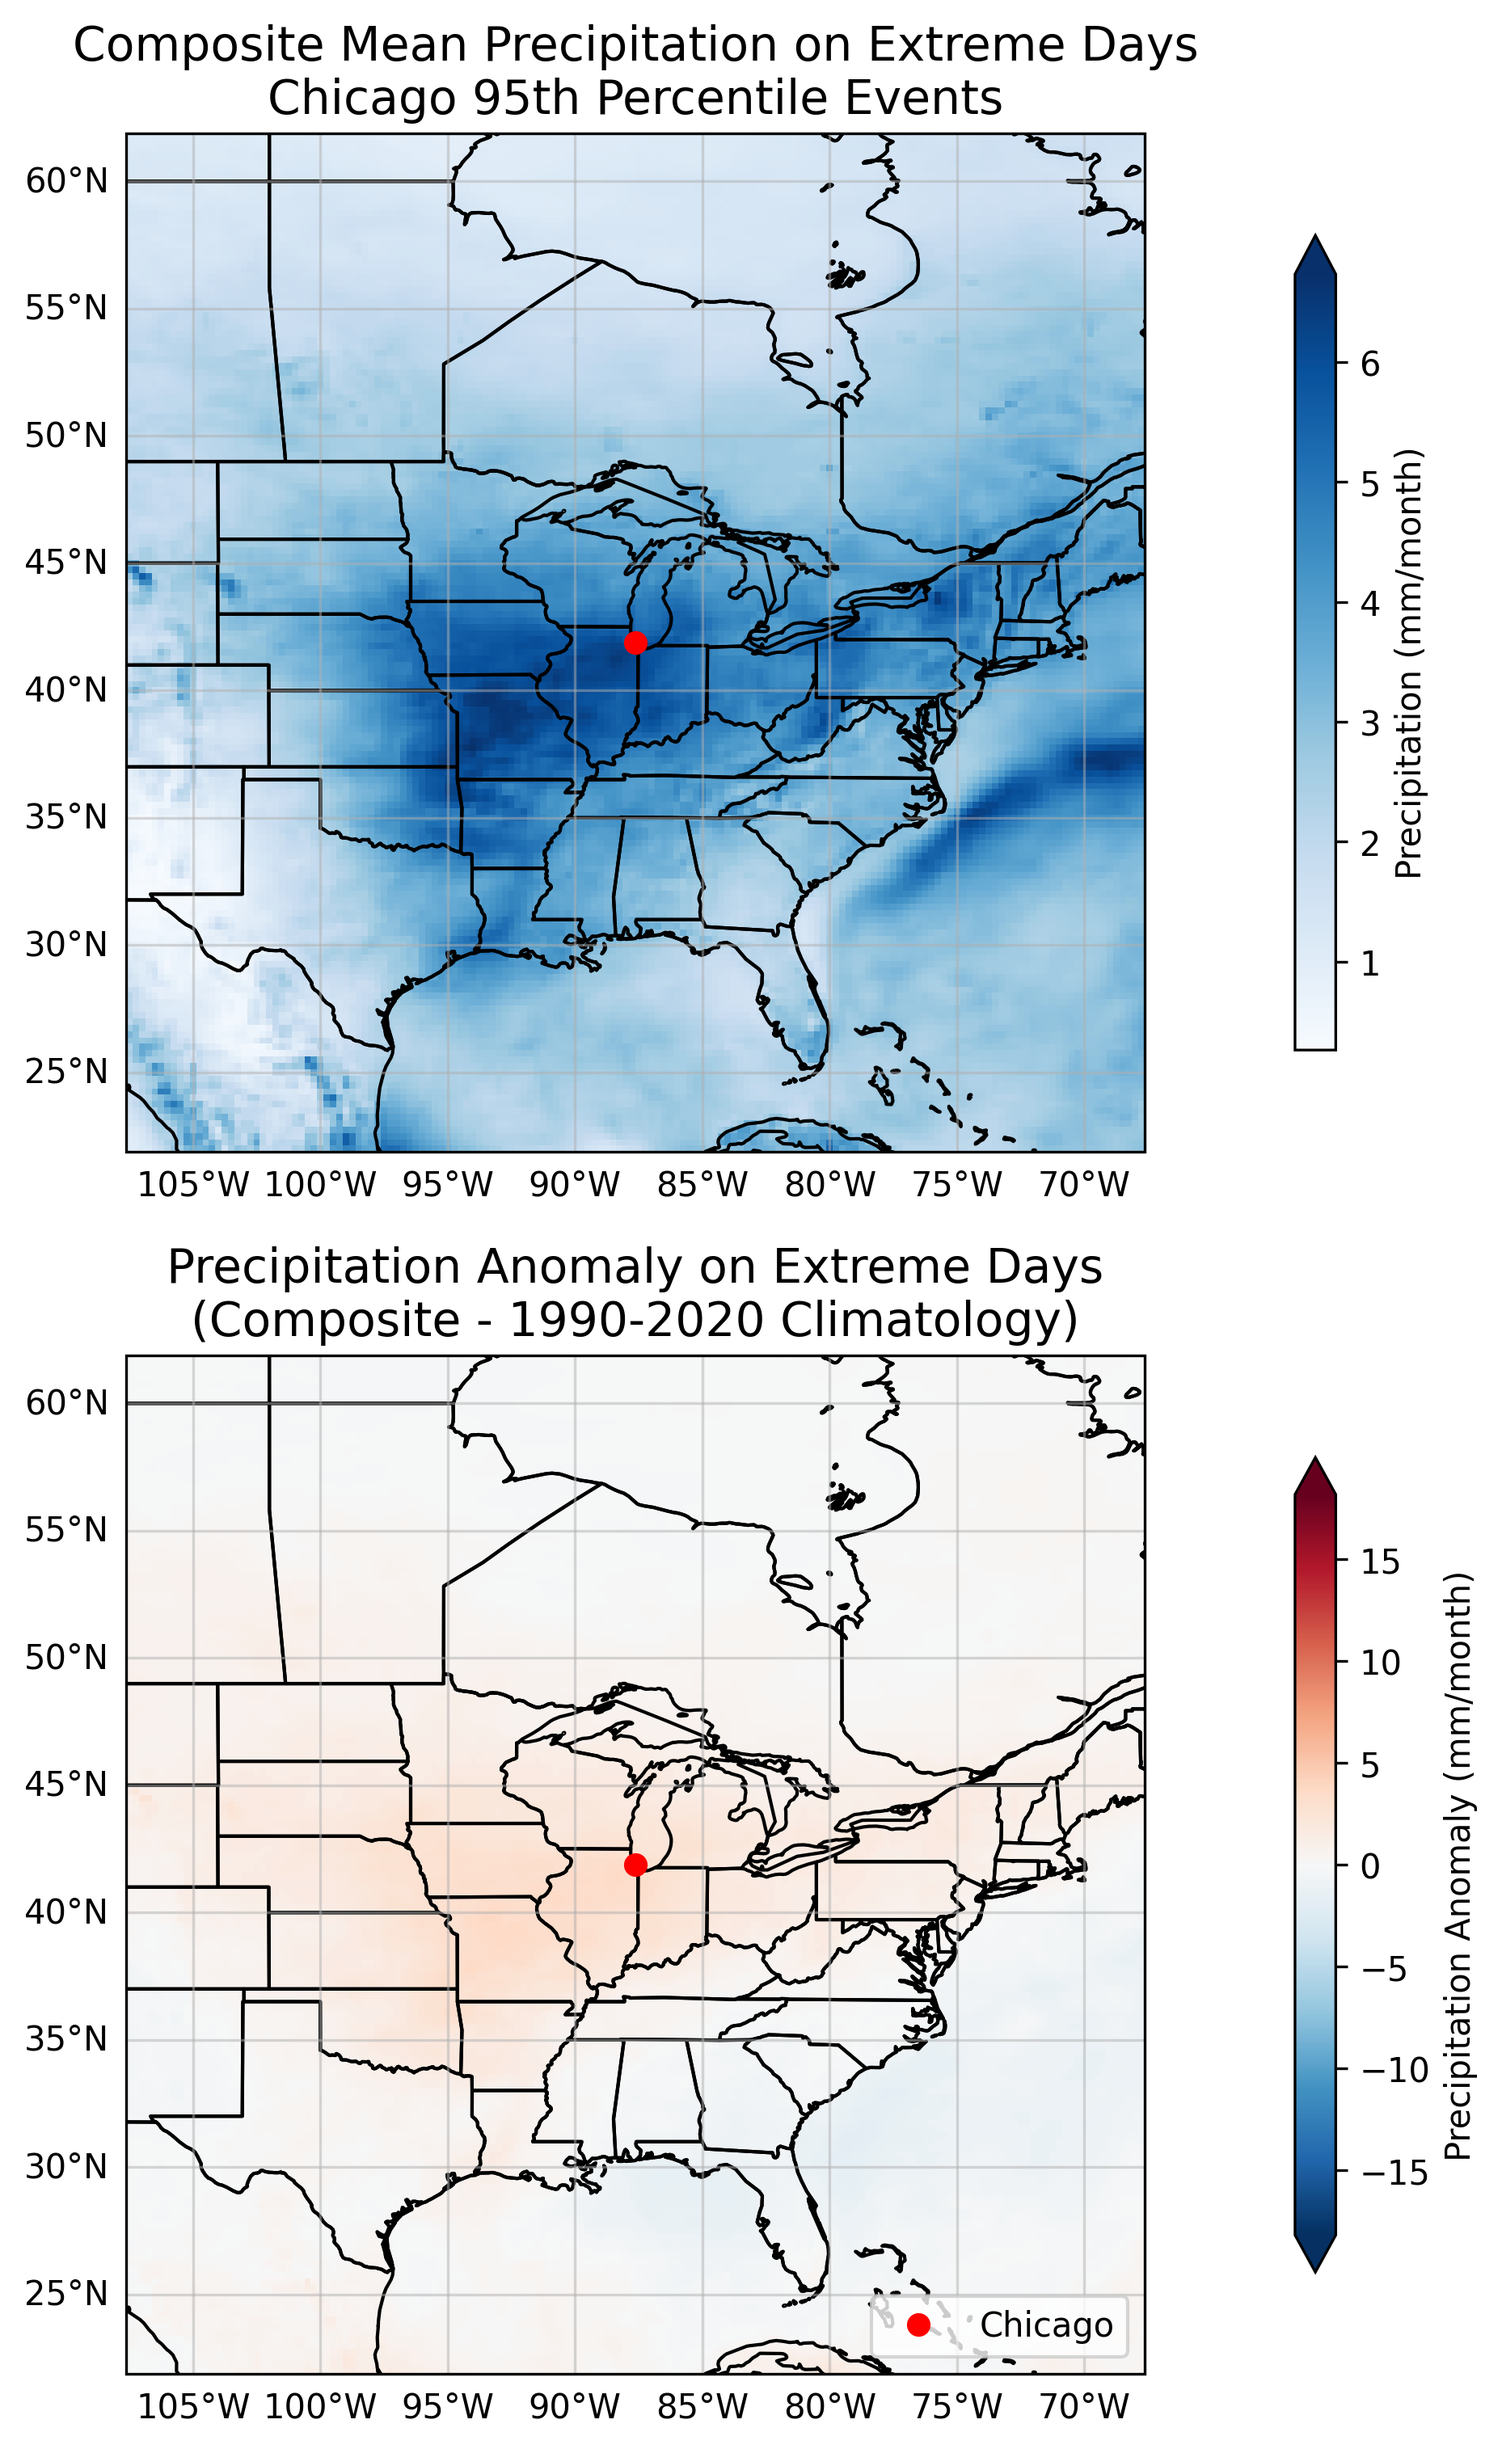
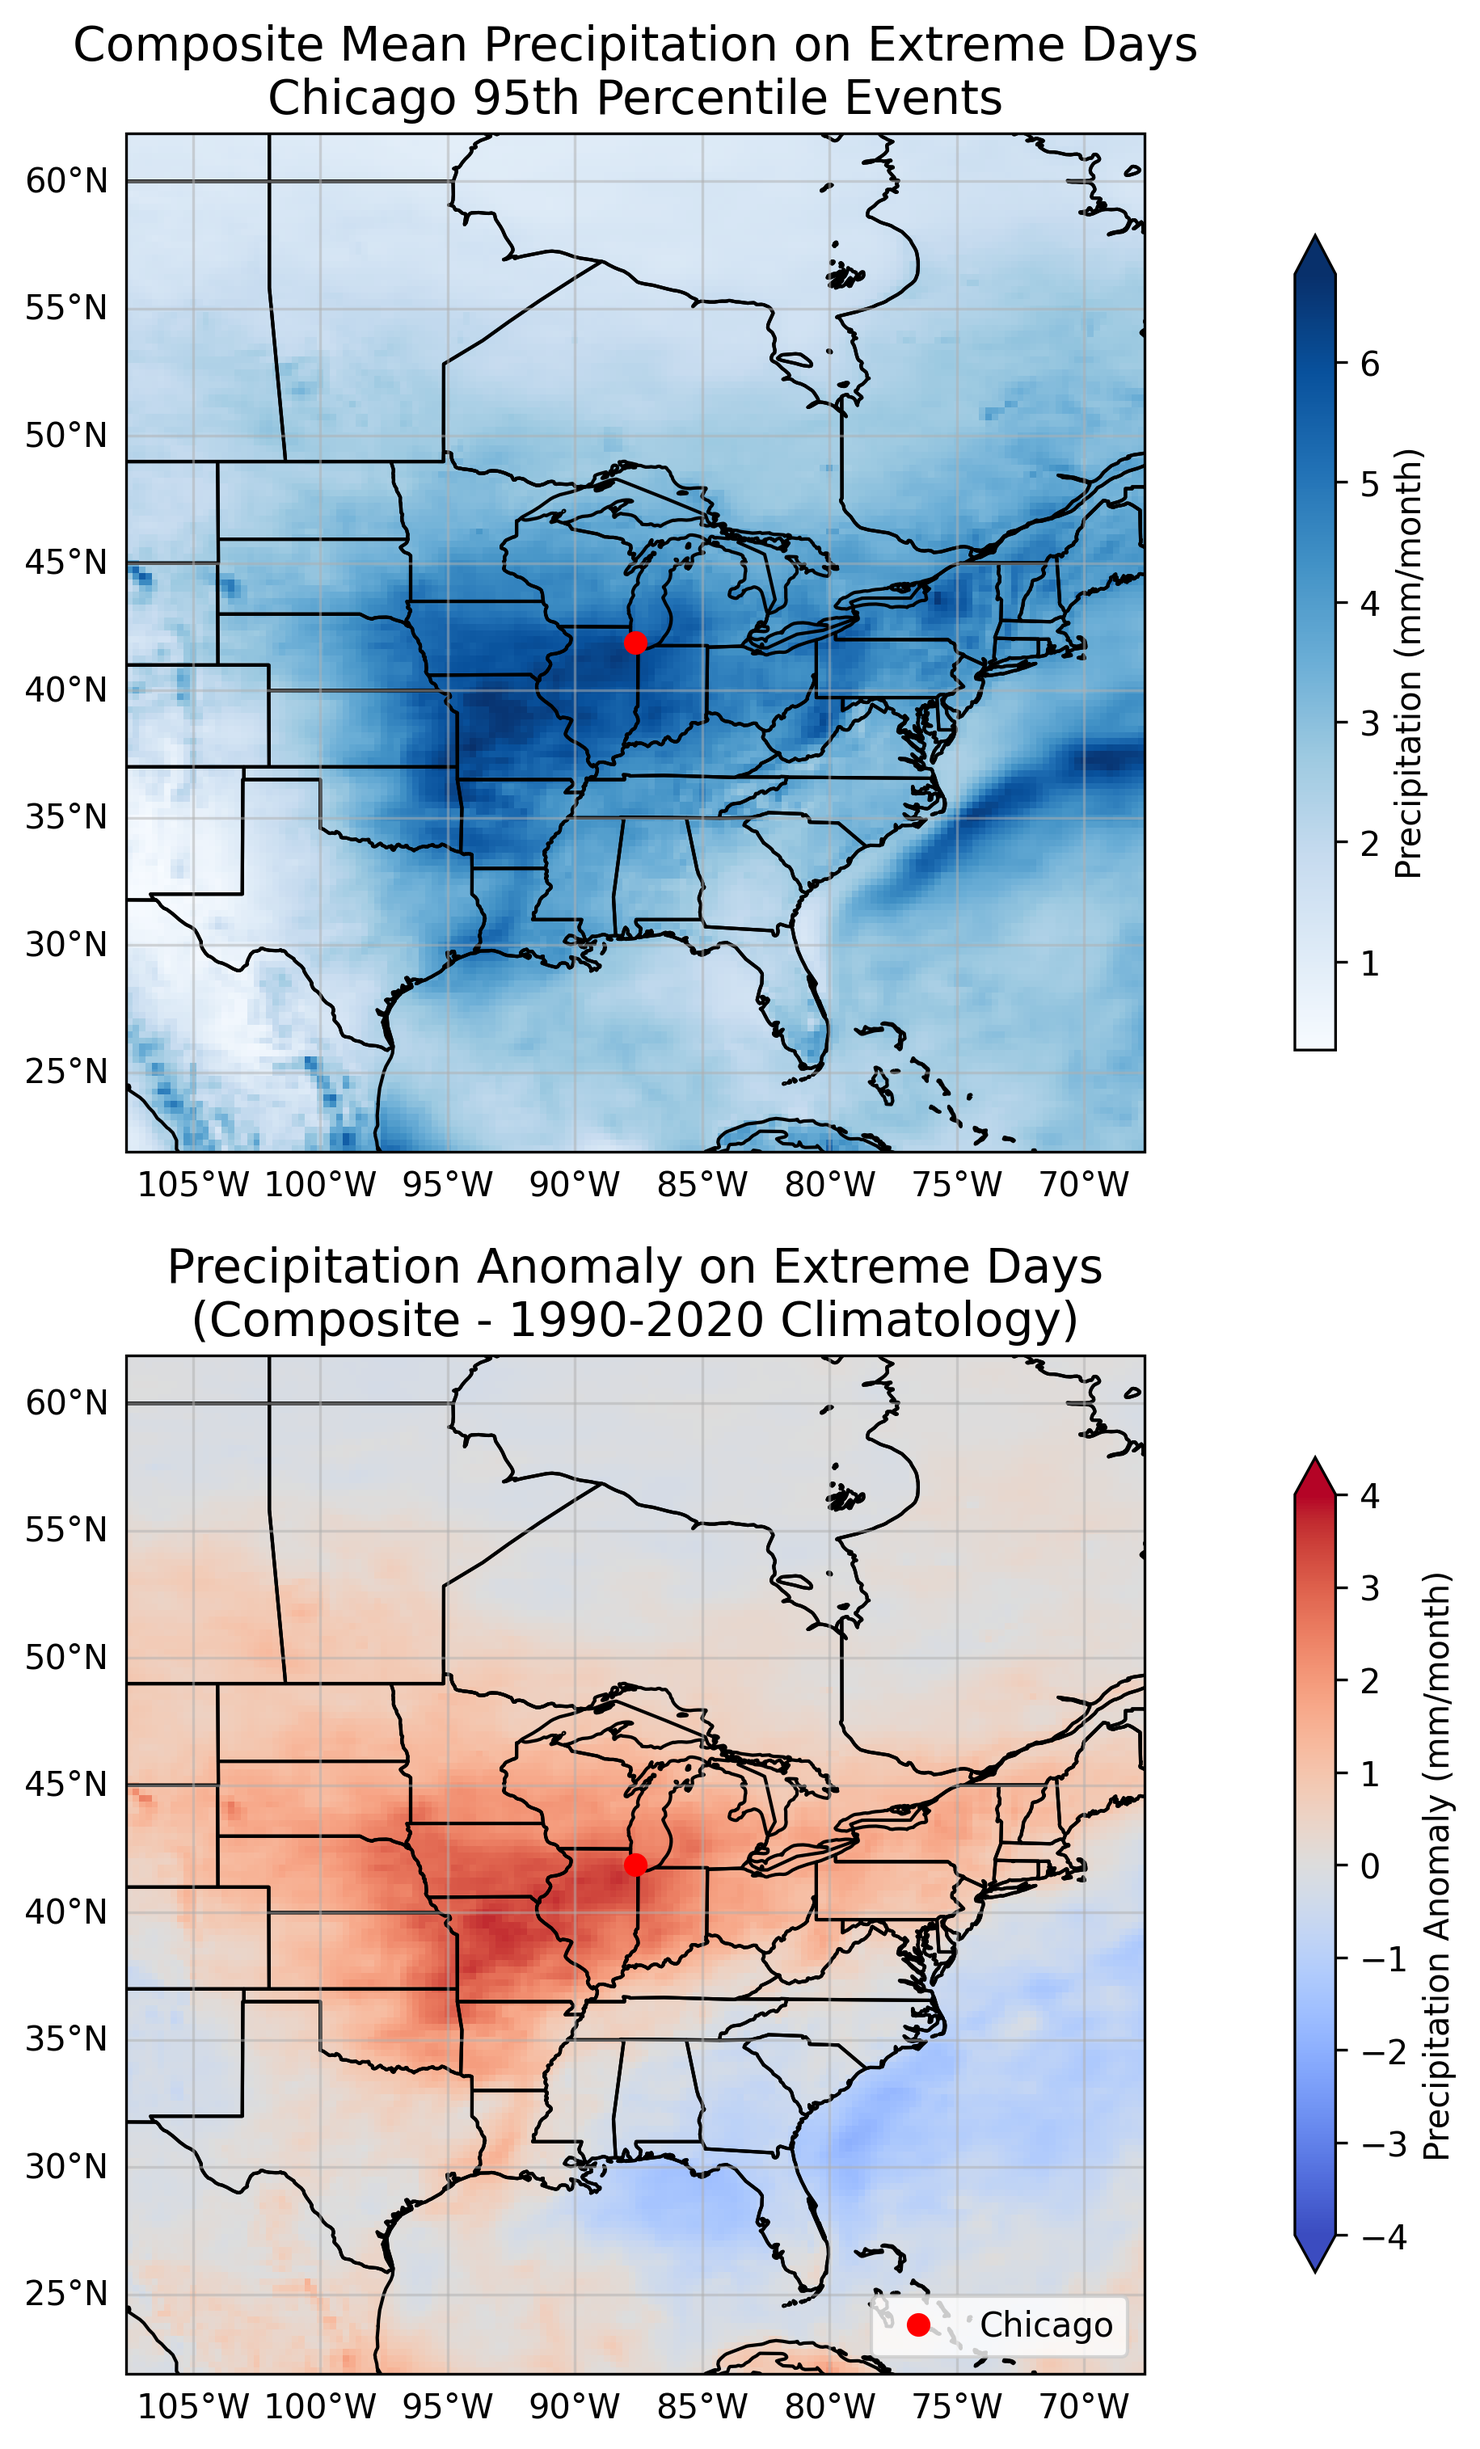
updates

diff --git a/assignment2.py b/assignment2.py
@@ -56,7 +56,7 @@ class PrecipitationAnalysis:
         self.lon_min = city_lon - 2.5
         self.lon_max = city_lon + 2.5
         
-        print(f"Analyzing precipitation for {city_name}")
+        print("Analyzing precipitation for ", city_name)
 
     def download_and_load_data(self):
         """
@@ -95,7 +95,7 @@ class PrecipitationAnalysis:
         Returns:
         --------
         xarray.DataArray
-            Area-averaged precipitation time series
+            Area averaged precipitation time series
         """
         
         # Check the actual dimensions and coordinates
@@ -132,17 +132,17 @@ class PrecipitationAnalysis:
                 longitude=slice(lon_min, lon_max)
             )
         
-        print(f"Selected data shape: {city_data['tp'].shape}")
-        print(f"Selected lat range: {city_data.latitude.min().values:.2f} to {city_data.latitude.max().values:.2f}")
-        print(f"Selected lon range: {city_data.longitude.min().values:.2f} to {city_data.longitude.max().values:.2f}")
+        print("Selected data shape:", city_data['tp'].shape)
+        print("Selected lat range:", city_data.latitude.min().values, "to", city_data.latitude.max().values)
+        print("Selected lon range:", city_data.longitude.min().values, "to", city_data.longitude.max().values)
         
-        # Calculate area-weighted mean
+        # Calculate area weighted mean
         # Convert precipitation from m to mm (multiply by 1000)
         precip_mm = city_data['tp'] * 1000
         
         # Check for NaN values before spatial averaging
-        print(f"NaN values in precipitation data: {precip_mm.isnull().sum().values}")
-        print(f"Data range: {precip_mm.min().values:.4f} to {precip_mm.max().values:.4f} mm")
+        print("NaN values in precipitation data:", precip_mm.isnull().sum().values)
+        print("Data range:", precip_mm.min().values, "to", precip_mm.max().values, "mm")
         
         # Calculate spatial mean over the 5x5 box
         city_precip = precip_mm.mean(dim=['latitude', 'longitude'])
@@ -150,14 +150,14 @@ class PrecipitationAnalysis:
         # Filter for the analysis period
         city_precip = city_precip.sel(valid_time=slice(f"{self.start_year}-01", f"{self.end_year}-12"))
         
-        print(f"After time filtering: {len(city_precip)} time steps")
-        print(f"Precipitation stats: mean={city_precip.mean().values:.3f}, std={city_precip.std().values:.3f} mm/month")
+        print("After time filtering:", len(city_precip), "time steps")
+        print("Precipitation stats: mean = ", city_precip.mean().values, "std = ", city_precip.std().values, "mm/month")
         
         # Convert monthly to daily
         days_per_month = city_precip.valid_time.dt.days_in_month
         daily_equiv = city_precip / days_per_month
         
-        print(f"Daily equivalent stats: mean={daily_equiv.mean().values:.3f}, std={daily_equiv.std().values:.3f} mm/day")
+        print("Daily equivalent stats: mean = ", daily_equiv.mean().values, "std = ", daily_equiv.std().values, "mm/day")
         
         self.city_precip = city_precip
         self.daily_equiv = daily_equiv
@@ -186,8 +186,8 @@ class PrecipitationAnalysis:
         self.extreme_indices = extreme_days
         
         n_extreme = extreme_days.sum().values
-        print(f"95th percentile value: {self.p95_value:.2f} mm/day")
-        print(f"Number of extreme events: {n_extreme}")
+        print("95th percentile value:", self.p95_value, "mm/day")
+        print("Number of extreme events:", n_extreme)
 
         return self.p95_value, extreme_days
     
@@ -209,17 +209,18 @@ class PrecipitationAnalysis:
         
         # Mark 95th percentile
         ax.axvline(self.p95_value, color='red', linestyle='--', linewidth=2, 
-                   label=f'95th percentile ({self.p95_value:.2f} mm/day)')
+           label='95th percentile (' + str(round(self.p95_value, 2)) + ' mm/day)')
         
         ax.set_xlabel('Daily Precipitation (mm/day)')
         ax.set_ylabel('Cumulative Probability (%)')
-        ax.set_title(f'Cumulative Distribution of Daily Precipitation\n{self.city_name} '
-                     f'({self.start_year}-{self.end_year})')
+        ax.set_title('Cumulative Distribution of Daily Precipitation\n' + self.city_name + 
+                 ' (' + str(self.start_year) + '-' + str(self.end_year) + ')')
+
         ax.grid(True, alpha=0.3)
         ax.legend()
 
-        plt.savefig(f'{self.city_name.replace(" ", "_")}_precipitation_CDF.png', 
-                   dpi=300, bbox_inches='tight')
+        plt.savefig(self.city_name.replace(" ", "_") + '_precipitation_CDF.png', 
+                dpi=300, bbox_inches='tight')
         plt.close()  
     
     def create_composite_maps(self):
@@ -228,7 +229,7 @@ class PrecipitationAnalysis:
         """
         
         # Calculate climatology
-        climo_data = self.ds_climo.sel(valid_time=slice(f'{self.start_year}-01', f'{self.end_year}-12'))
+        climo_data = self.ds_climo.sel(valid_time=slice(str(self.start_year) + '-01', str(self.end_year) + '-12'))
         climo_mean = climo_data['tp'].mean(dim='valid_time') * 1000
         
         # Calculate composite mean for extreme days
@@ -275,9 +276,8 @@ class PrecipitationAnalysis:
         ax1.plot(self.city_lon, self.city_lat, 'ro', markersize=6, 
                 transform=ccrs.PlateCarree(), label=self.city_name)
         
-        ax1.set_title(f'Composite Mean Precipitation on Extreme Days\n'
-                     f'{self.city_name} 95th Percentile Events', fontsize=14)
-        
+        ax1.set_title('Composite Mean Precipitation on Extreme Days\n' + 
+                      self.city_name + ' 95th Percentile Events', fontsize=14)
         # Add gridlines
         gl1 = ax1.gridlines(draw_labels=True, alpha=0.5)
         gl1.top_labels = False
@@ -293,11 +293,11 @@ class PrecipitationAnalysis:
         ax2.add_feature(cfeature.LAND, alpha=0.5)
         
         # Plot anomaly
-        anom_max = max(abs(anomaly.min().values), abs(anomaly.max().values))
+        anom_max = 4
 
         im2 = anomaly.plot(
             ax=ax2, transform=ccrs.PlateCarree(),
-            cmap='RdBu_r', center=0, extend='both',
+            cmap='coolwarm', center=0,
             vmin=-anom_max, vmax=anom_max,
             cbar_kwargs={'label': 'Precipitation Anomaly (mm/month)', 'shrink': 0.8}
         )
@@ -306,8 +306,8 @@ class PrecipitationAnalysis:
         ax2.plot(self.city_lon, self.city_lat, 'ro', markersize=6, 
                 transform=ccrs.PlateCarree(), label=self.city_name)
         
-        ax2.set_title(f'Precipitation Anomaly on Extreme Days\n'
-                    f'(Composite - {self.start_year}-{self.end_year} Climatology)', fontsize=14)
+        ax2.set_title('Precipitation Anomaly on Extreme Days\n(Composite - ' + 
+                      str(self.start_year) + '-' + str(self.end_year) + ' Climatology)', fontsize=14)
         ax2.legend()
         
         # Add gridlines
@@ -315,8 +315,8 @@ class PrecipitationAnalysis:
         gl2.top_labels = False
         gl2.right_labels = False
         
-        plt.savefig(f'{self.city_name.replace(" ", "_")}_composite_maps.png', 
-                   dpi=300, bbox_inches='tight')
+        plt.savefig(self.city_name.replace(" ", "_") + '_composite_maps.png', 
+                dpi=300, bbox_inches='tight')
         plt.close() 
     
     
@@ -326,7 +326,7 @@ class PrecipitationAnalysis:
         """
 
         # Save city precipitation time series
-        output_filename = f'{self.city_name.replace(" ", "_")}_precipitation_data.nc'
+        output_filename = self.city_name.replace(" ", "_") + '_precipitation_data.nc'
         self.city_precip.to_netcdf(output_filename)
         
         # Save statistics
@@ -342,7 +342,8 @@ class PrecipitationAnalysis:
         }
         
         stats_df = pd.DataFrame([stats_dict])
-        stats_df.to_csv(f'{self.city_name.replace(" ", "_")}_stats.csv', index=False)
+        stats_df.to_csv(self.city_name.replace(" ", "_") + '_stats.csv', index=False)
+
     
     def run_analysis(self):
         """
